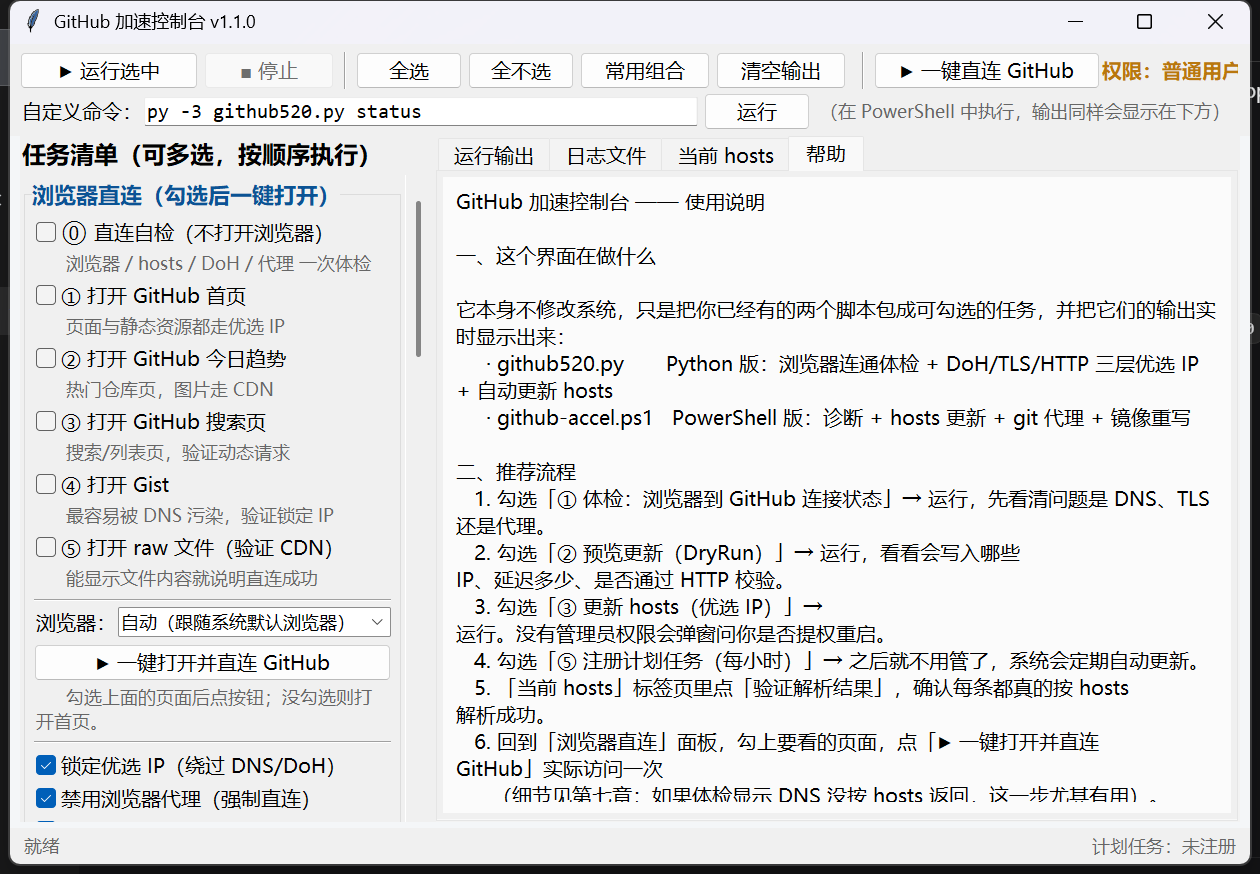
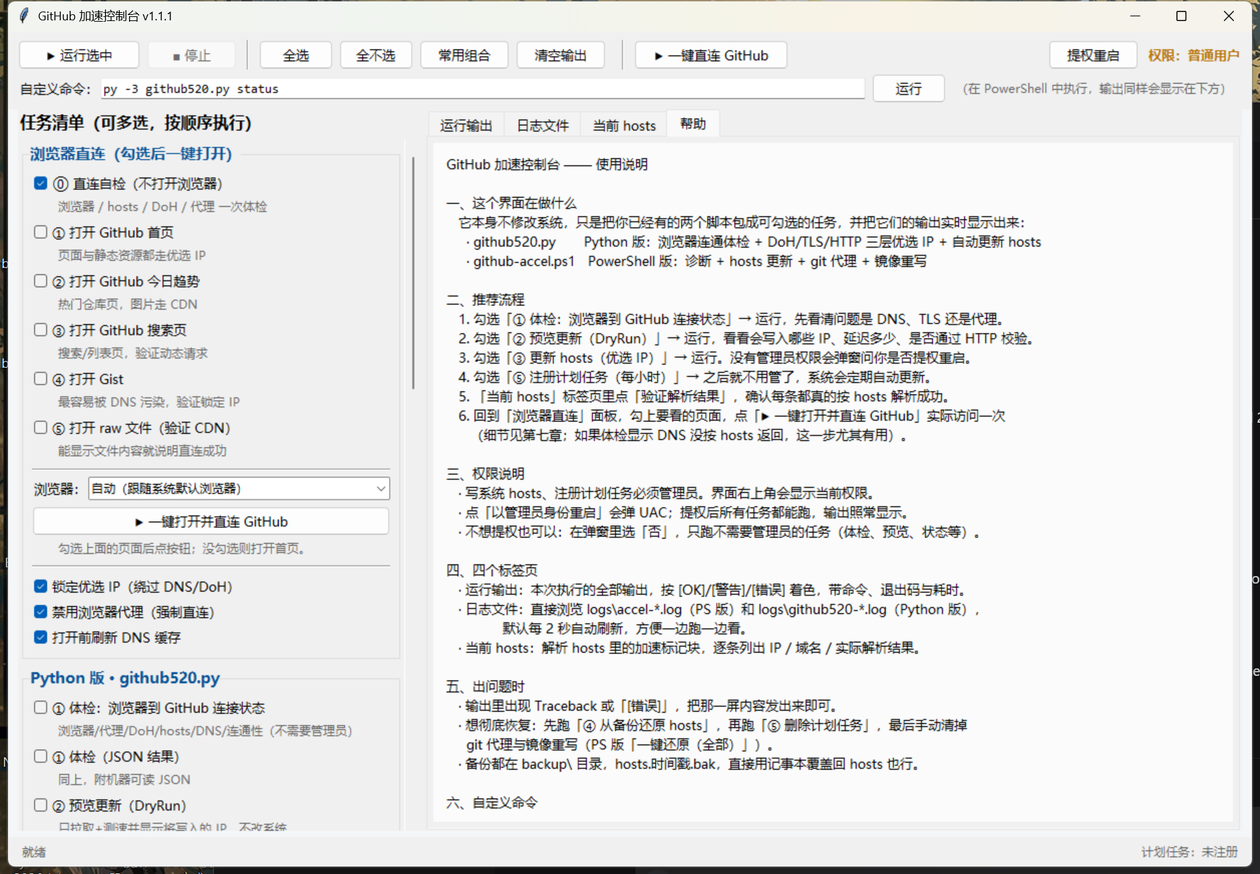
docs+gui: 文档与截图去环境指纹，mirror 增加令牌告警
README
- 两处本机路径改成占位写法：`D:\python\python.exe` -> `<你的 Python 路径>\python.exe`，
  计划任务示例里的 `D:\项目学习\加速gh\github520.py` -> `<项目目录>\github520.py`
- 不再写明作者机器的屏幕分辨率（改成「150% 缩放的高分屏」）
- §3.3 新增「凭据安全（重要）」：镜像重写会把 https://github.com/ 的流量交给第三方，
  开启期间输入账号 / PAT 等于把凭据交给对方；要用先 `-Action mirror -Off`
- §1.6 继续用截图展示「hosts 列顺序写反」的整段标红（图移存为 hosts-order-error.png）
- §2.5 截图说明同步为 v1.1.1 的实际状态

github-accel.ps1
- `-Action mirror` 启用时多打印两条醒目告警：开启期间不要输入任何令牌（PAT / 密码），
  要 push 或登录先执行 `-Action mirror -Off`；.DESCRIPTION 与 help 文案同步

github_gui.py (v1.1.0 -> v1.1.1)
- 直连自检不再罗列「已安装浏览器」清单，只报检测到几个可用浏览器
  （输出与截图都不会泄露本机装了哪些软件；清单仍在左侧「浏览器」下拉框里）

screenshots/
- 四张界面截图按 v1.1.1 重新生成（真实运行、无 PS 修改）；
  日志页截图滚动到不含本机路径的一段
- 原「hosts 顺序写反」告警截图移存为 hosts-order-error.png，供 §1.6 引用

Changed region(s): [[0.0, 0.0, 1.0, 1.0]]

diff --git a/github_gui.py b/github_gui.py
@@ -42,7 +42,7 @@ from tkinter import messagebox, ttk
 from typing import Dict, List, Optional, Sequence, Tuple
 
 APP_TITLE = "GitHub 加速控制台"
-APP_VERSION = "1.1.0"
+APP_VERSION = "1.1.1"
 HERE = Path(__file__).resolve().parent
 PY_SCRIPT = HERE / "github520.py"
 PS_SCRIPT = HERE / "github-accel.ps1"
@@ -560,7 +560,11 @@ def self_check_report() -> List[str]:
     lines.append(f"[OK] 默认浏览器：{dname or '未识别'}")
     if dexe:
         lines.append(f"-> 路径：{dexe}")
-    lines.append("-> 已安装：" + ("、".join(n for n, _ in browsers) if browsers else "未检测到"))
+    # 只说数量，不打印清单：输出/截图不会泄露你装了哪些软件（清单在左侧下拉框里）
+    if browsers:
+        lines.append(f"-> 已检测到 {len(browsers)} 个可用浏览器（清单见左侧「浏览器」下拉框）")
+    else:
+        lines.append("-> 未检测到可用浏览器，请手动指定浏览器路径")
     entries, gen, swapped = hosts_entries()
     if entries:
         lines.append(f"[OK] hosts 加速条目：{len(entries)} 条（生成于 {gen}）")
